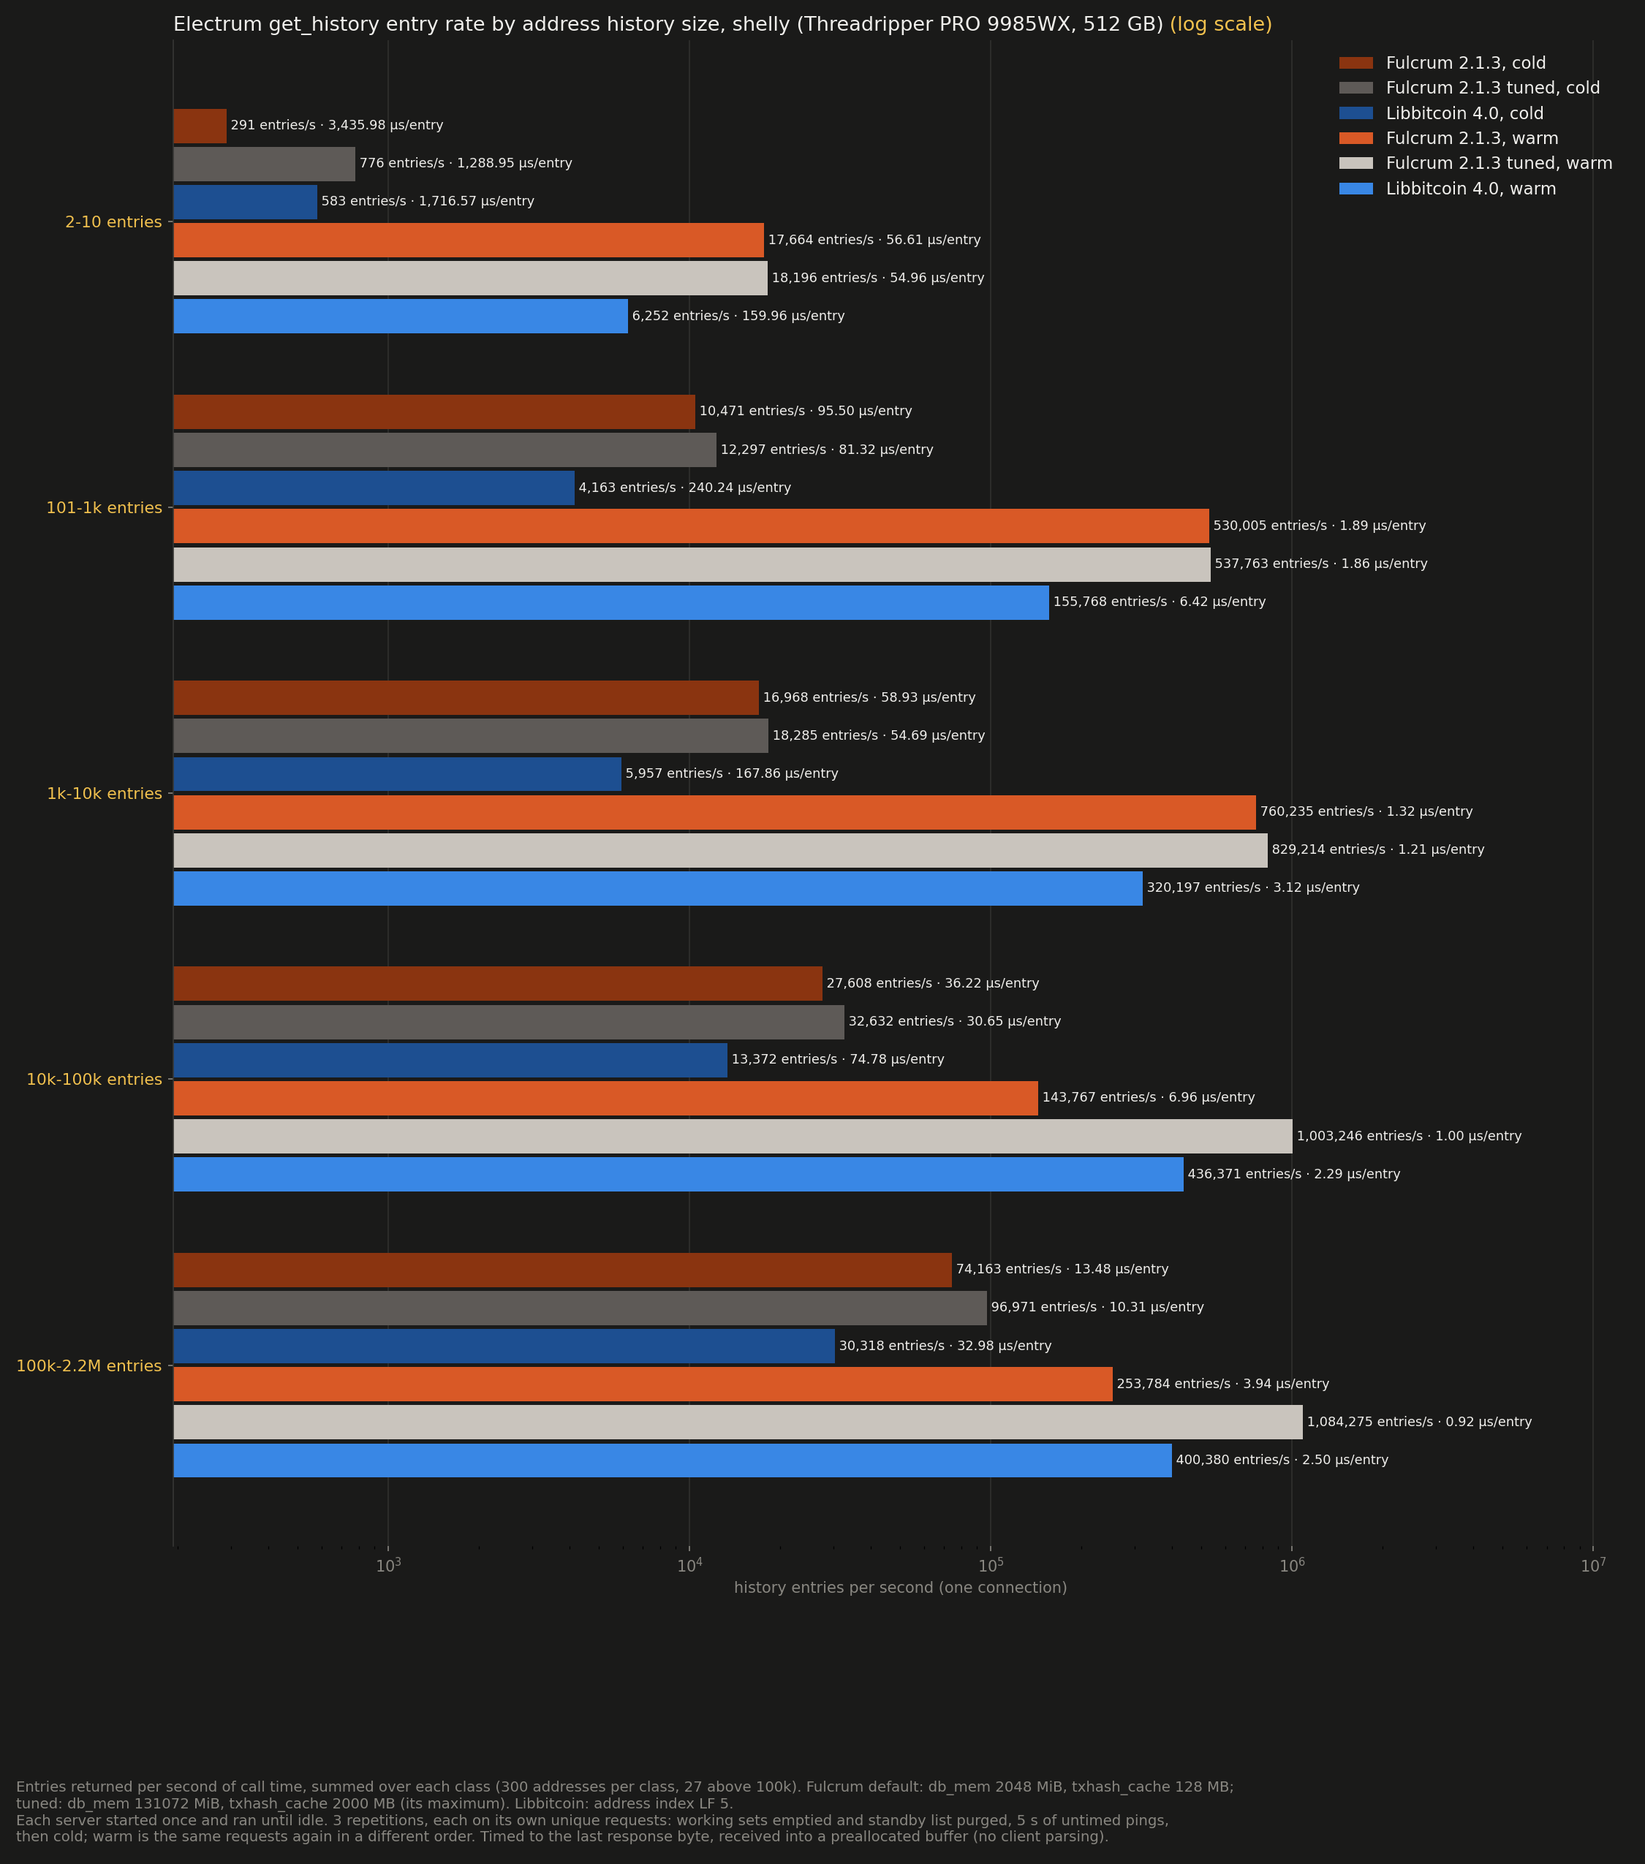
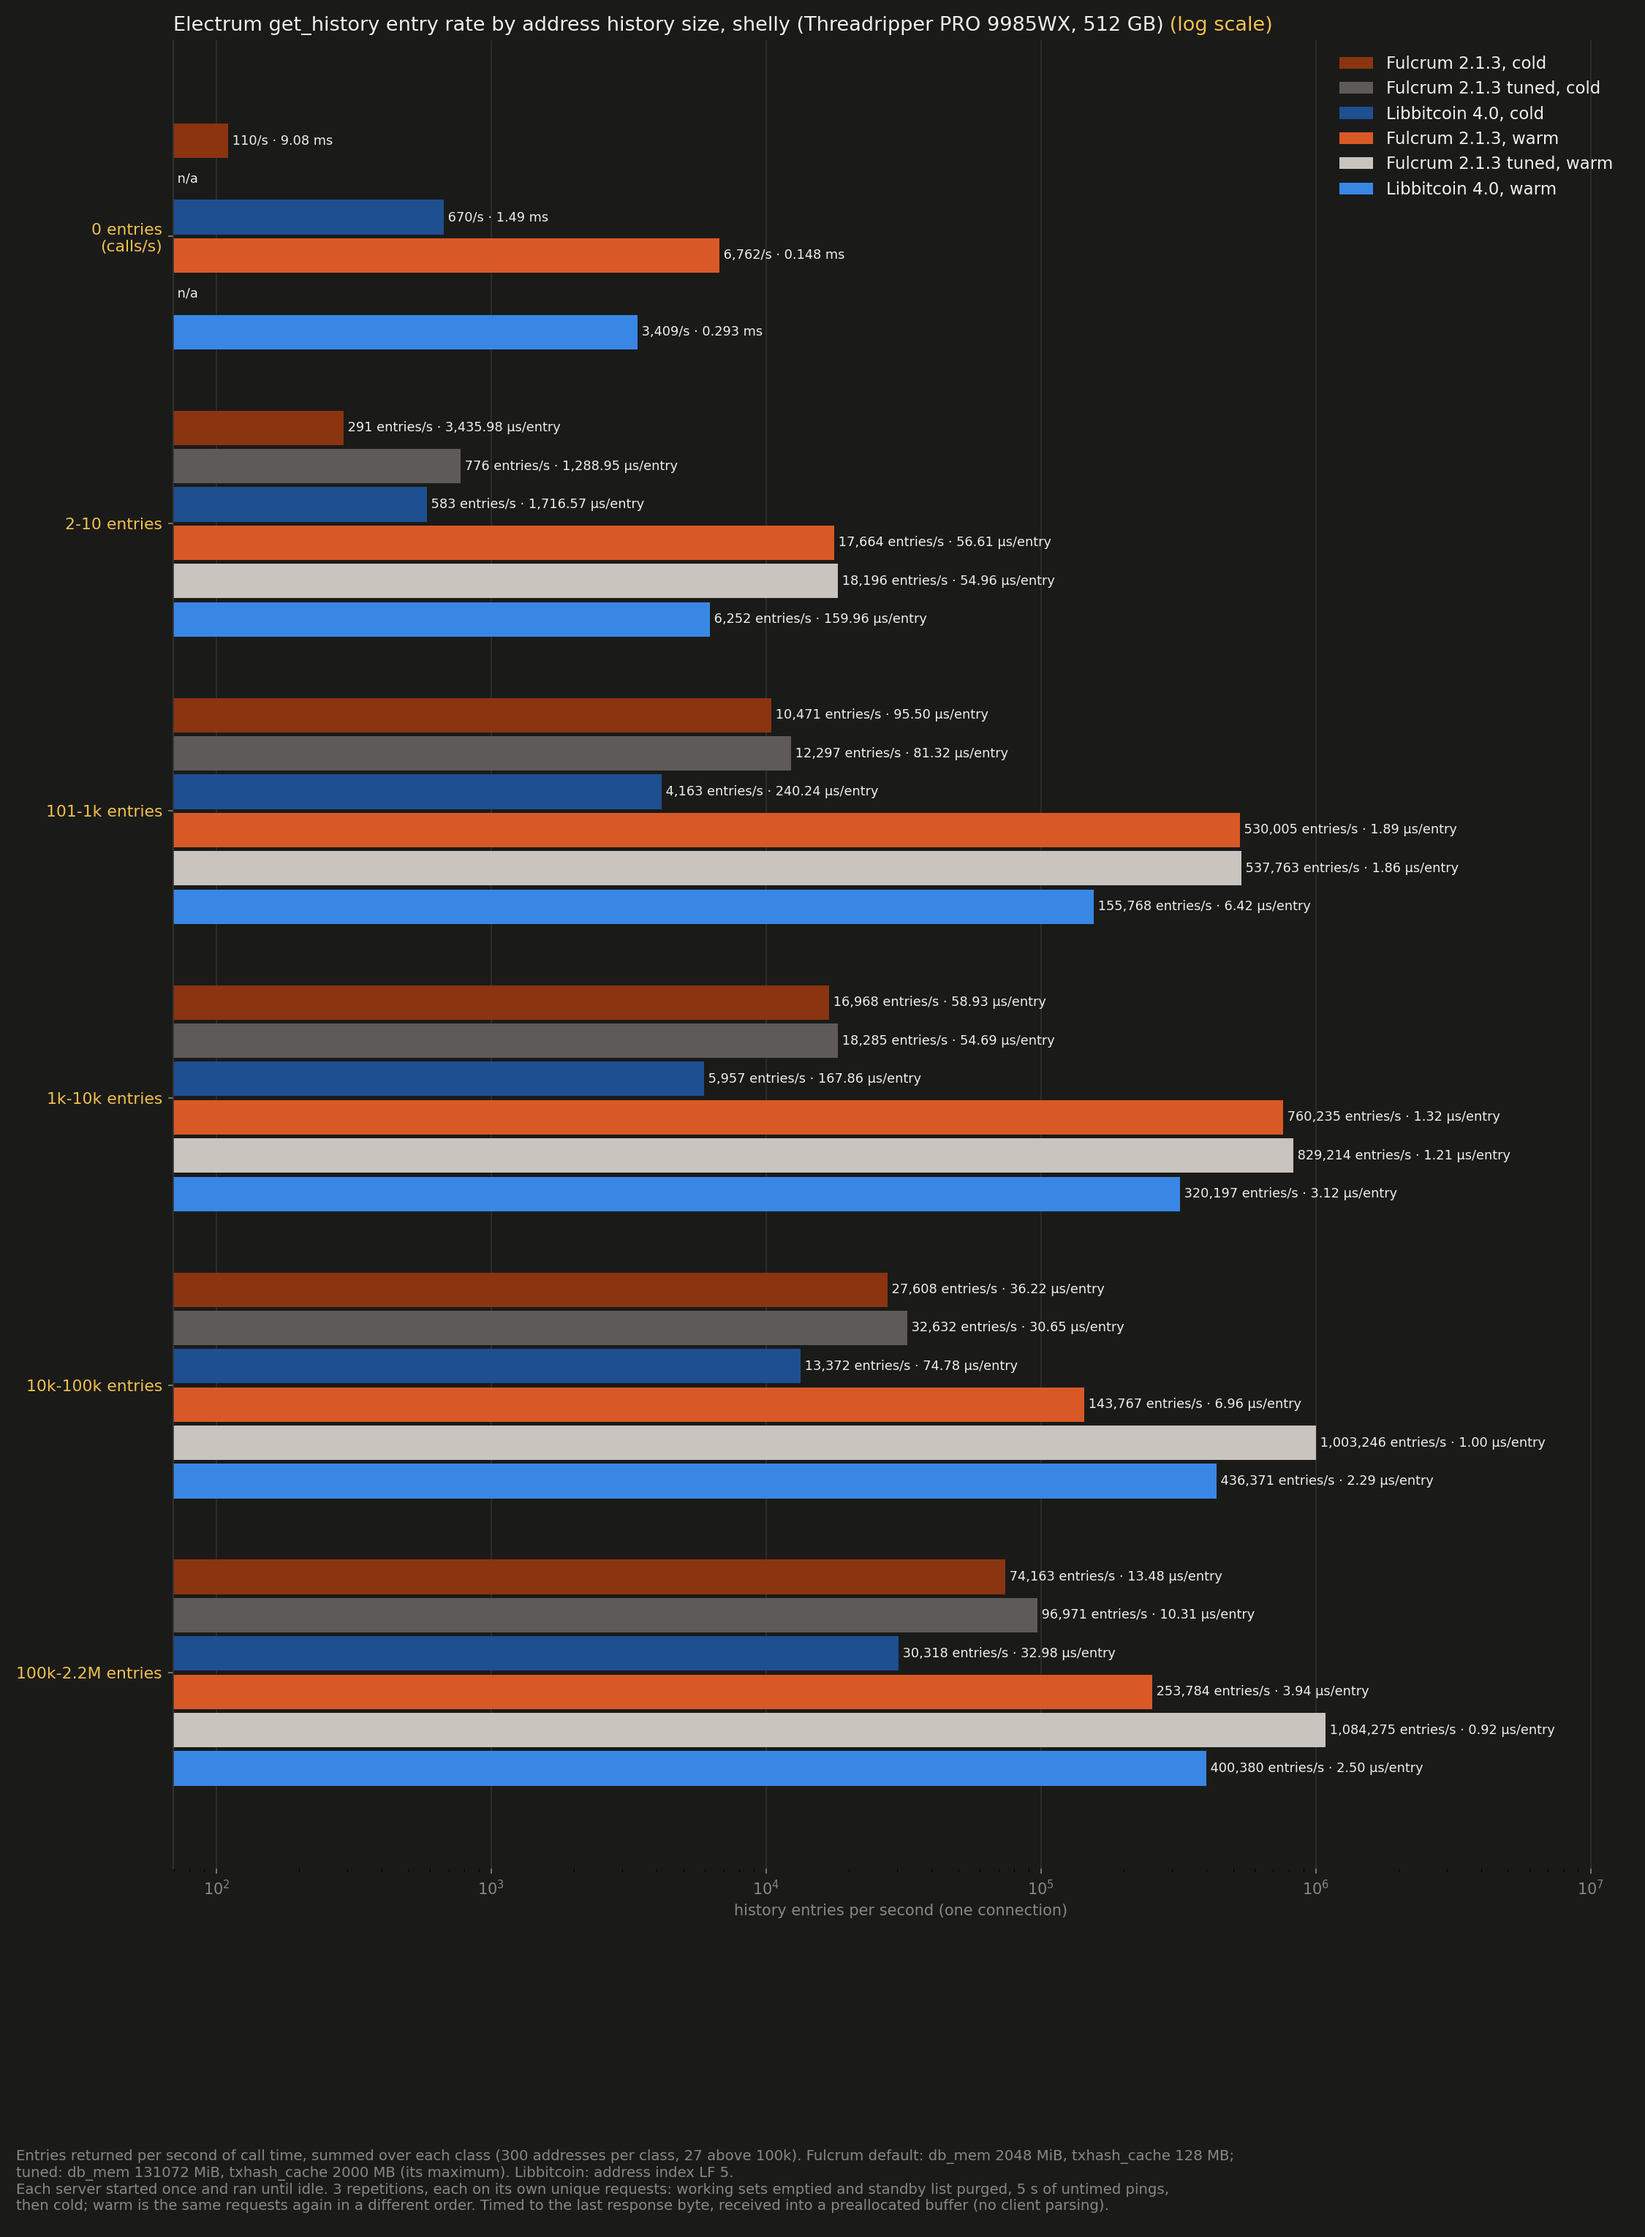
Plot absent addresses in the history chart.

diff --git a/server-performance.html b/server-performance.html
@@ -255,10 +255,6 @@
         <h3>Chain object rate: comparative (log scale)</h3>
         <img src="performance/server-electrum.png" alt="Chain object rate: comparative (log scale)" loading="lazy">
       </figure>
-      <figure class="shot" data-full="performance/server-history-absent.png" tabindex="0">
-        <h3>Absent address probe rate: comparative (log scale)</h3>
-        <img src="performance/server-history-absent.png" alt="Absent address probe rate: comparative (log scale)" loading="lazy">
-      </figure>
       <figure class="shot" data-full="performance/server-history-absent-lf.png" tabindex="0">
         <h3>Absent address probe rate by address index load factor (log scale)</h3>
         <img src="performance/server-history-absent-lf.png" alt="Absent address probe rate by address index load factor (log scale)" loading="lazy">
@@ -340,9 +336,9 @@
     <p class="lede">
       Each method is called with 300 unique requests, drawn from random blocks over the whole
       chain: a block, a transaction and an output script from each. Addresses are grouped by
-      history size, and the largest class adds 27 addresses of 100k to 2.2M entries. The absent
-      address probe uses 300 script hashes that own no output, the query a wallet makes most often
-      when it scans past its last used address.
+      history size, and the largest class adds 27 addresses of 100k to 2.2M entries. The 0 entries
+      class uses 300 script hashes that own no output, the query a wallet makes most often when it
+      scans past its last used address, and is plotted in calls per second.
     </p>
     <p class="lede">
       Each server starts once and runs until idle. Each of three repetitions, on its own requests,
